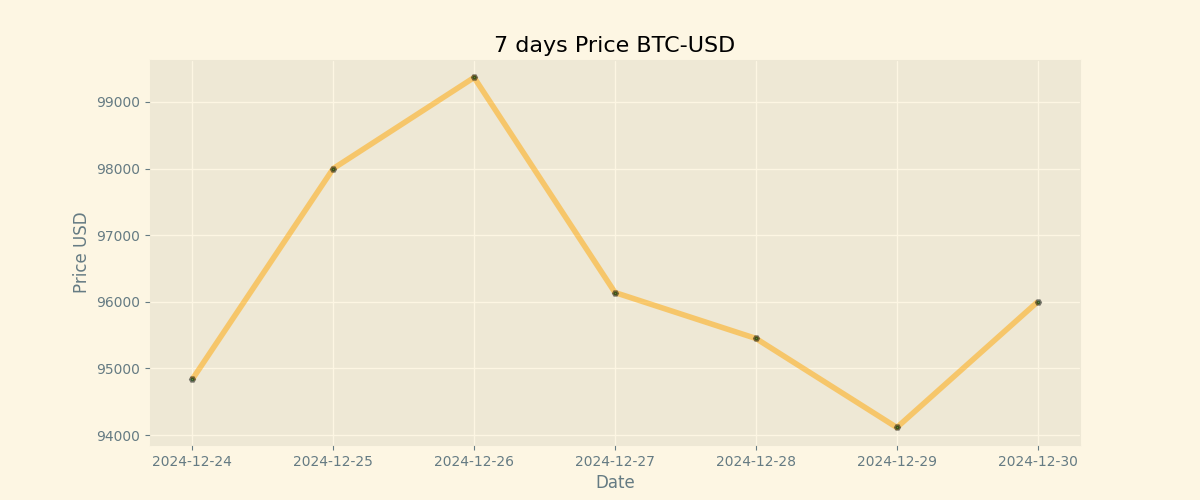
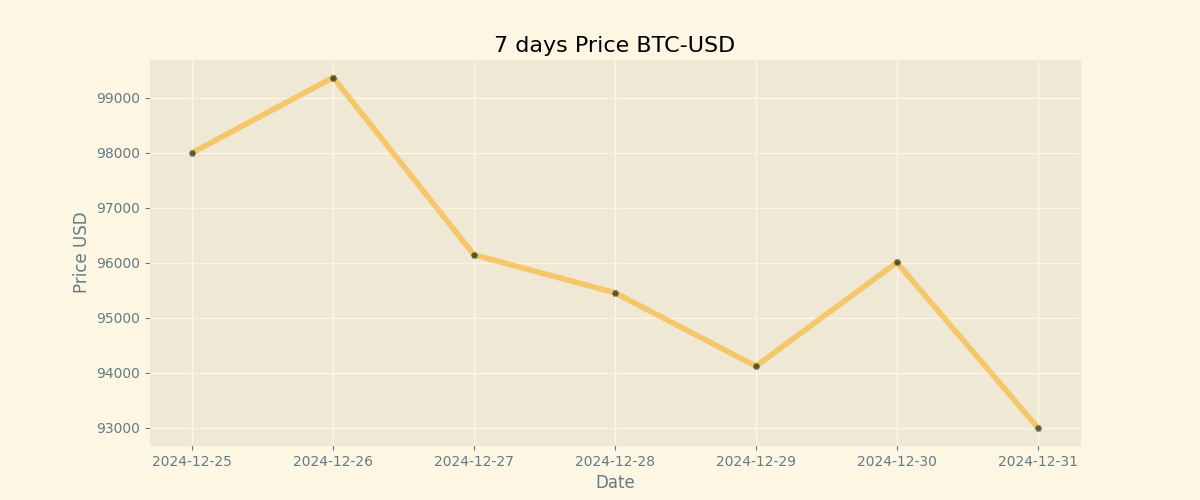
Duty Updates 2024-12-31

diff --git a/README.md b/README.md
@@ -9,8 +9,8 @@
 
 | Currency | Price           |
 | -------- | --------------- |
-| **BTC**  | **$ 96001.58** |
-| **ETH**  | **$ 3344.08** |
+| **BTC**  | **$ 93000.0** |
+| **ETH**  | **$ 3350.0** |
 
 ## BTC chart
 
